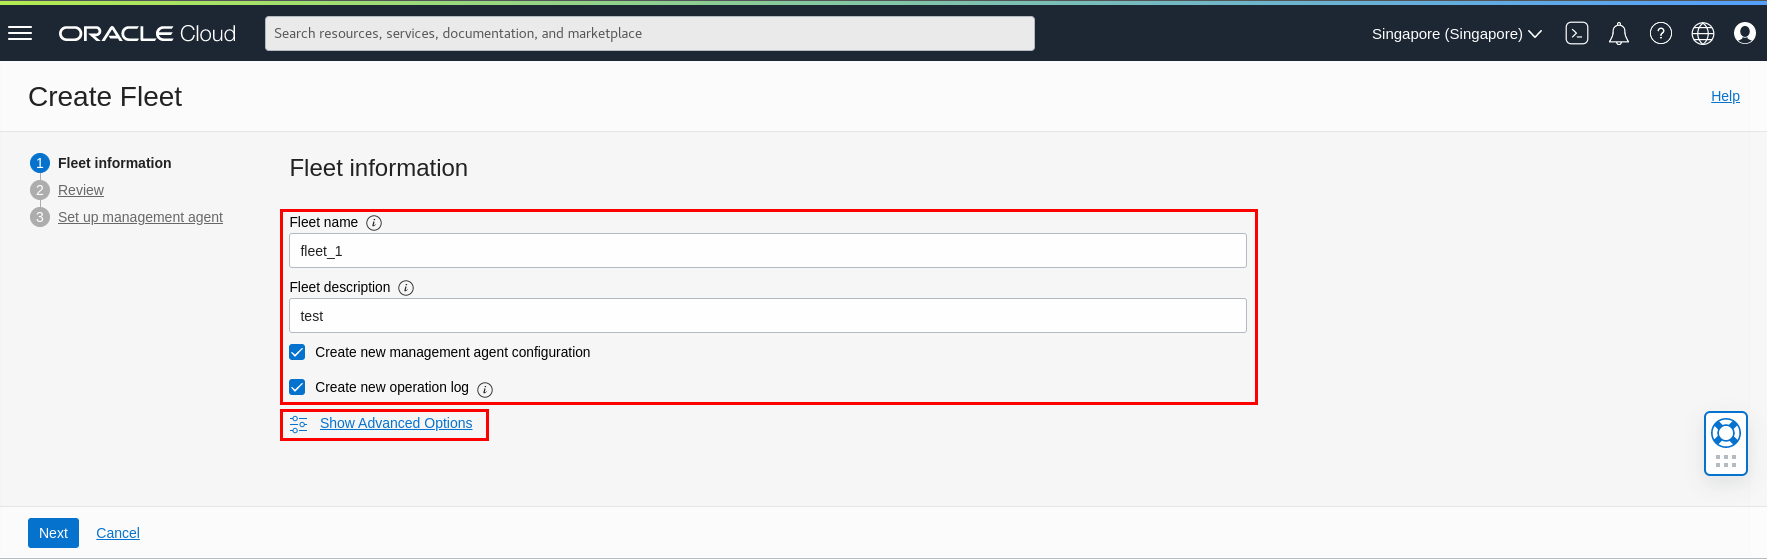
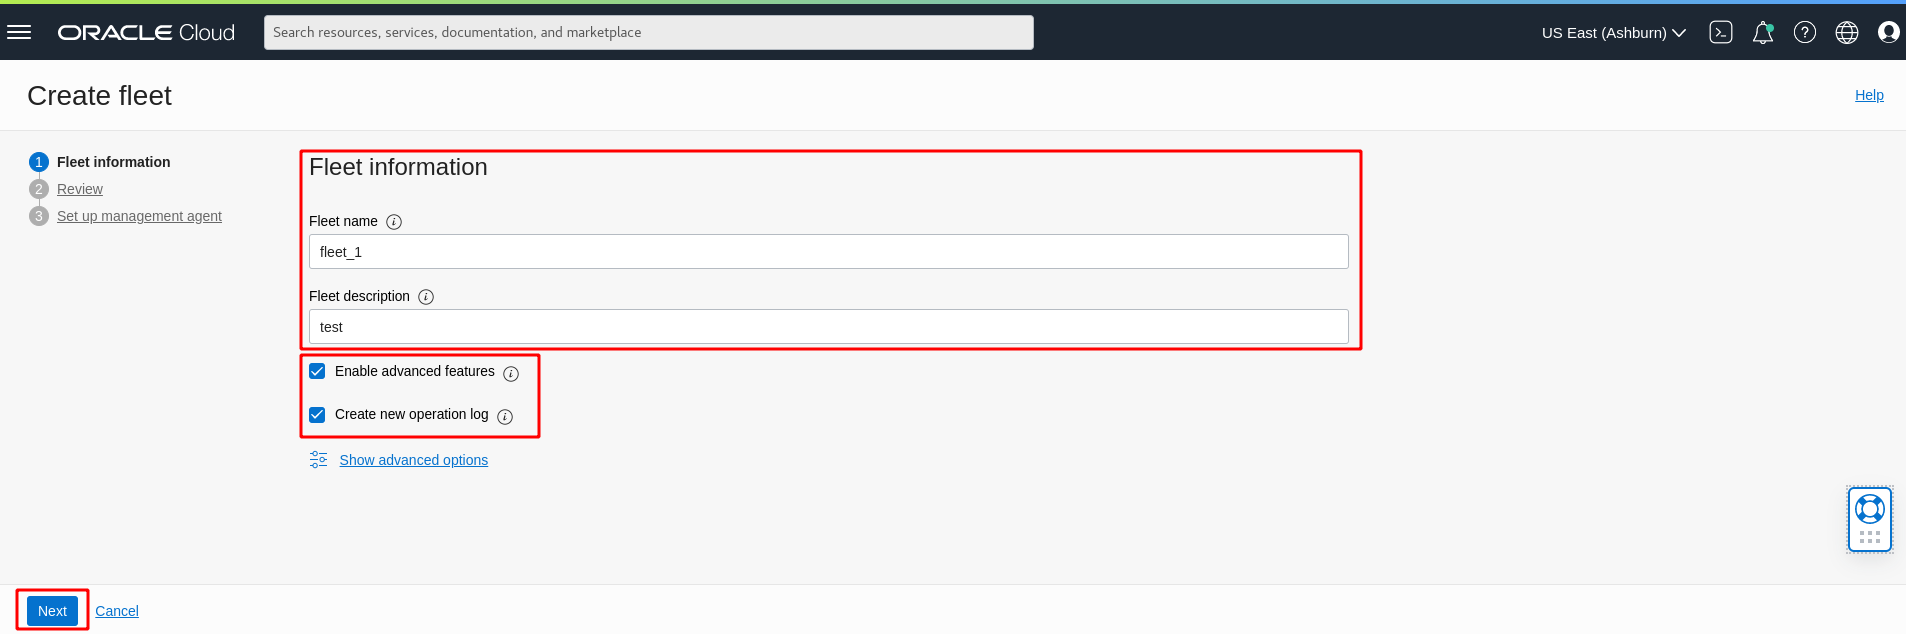
2b & 2c Update create fleet process
AJ-5586

diff --git a/java-management/setup-a-fleet/setup-a-fleet.md b/java-management/setup-a-fleet/setup-a-fleet.md
@@ -30,41 +30,29 @@ In this lab, you will:
 
 3. In the Create Fleet dialog box, enter a name for the Fleet Name (for example, `fleet_1`), and a description.
 
-4. Select **Create New Management Agent Configuration**.
-
-5. Click **Show Advanced Options**.
+4. Select **Enable advanced features**. This is to enable advanced Lifecycle Management (LCM) operations. You can still edit it after the fleet is created.
 
   ![image of create fleet options page](images/create-fleet.png)
 
-6. Under **Advanced Options**:
+5. Click **Next**.You are prompted to review the fleet information and management agent configuration. If you wish to modify your choices, click **Previous**.
 
-  ![image of fleet advanced options](images/create-fleet-advanced-configuration.png)
-
-  If you would like to keep the default name of the Install key, no changes are needed, or else deselect **Use Fleet Name** for Install Key Name and enter an alternative name for the management agent install key, for this example, enter "management-agent-install-key-fleet-1".
-
-  In the **Maximum Installations** field, specify a number that indicates the maximum number of installations that can be associated with the key. For this example enter **10**.
-
-  In the **Valid For** field, specify a number that indicates the period for which the key is valid. The default value is 1 Year.
-
-7. Click **Next**.You are prompted to review the fleet information and management agent configuration. If you wish to modify your choices, click **Previous**.
-
-8. Click **Create**. This creates a new fleet and a new management agent install key using the information you provided.
+6. Click **Create**. This creates a new fleet and its configuration.
 
   ![image of create fleet confirm creation](images/create-fleet-create.png)
 
-9. Click **Download Install Key** to download the install key. The install key is issued against your identity domain and validates the authenticity of the installation.
+7. Click **Download Install Key** to download the install key. The install key is issued against your identity domain and validates the authenticity of the installation.
 
   ![image of page to download management agent software](images/download-management-agent-software-new.png)
 
   Click **Done** once the download is complete. The downloaded file will be used in [Lab 5: Install Management Agent on non-OCI Hosts - Linux](?lab=set-up-of-management-agent-linux) to install the Management Agent.
 
-10. After JMS is linked to the management agent, it will collect information on your Java runtimes. As the management agent will scan the instance periodically, the information may not appear immediately. The scanning frequency can be changed here.
+8. After JMS is linked to the management agent, it will collect information on your Java runtimes. As the management agent will scan the instance periodically, the information may not appear immediately. The scanning frequency can be changed here.
 
-11. Click the fleet. In the detail page, click on **Modify Agent Settings**.
+9. Click the fleet. In the detail page, click on **Modify Agent Settings**.
 
   ![image of fleet details page](images/fleet-details-page-new.png)
 
-12. Change the **Java Runtime Discovery** and **Java Runtime Usage** to the desired value. For this example, change **Java Runtime Discovery** to **3 hours**, and **Java Runtime Usage** to **5 minutes**.
+10. Change the **Java Runtime Discovery** and **Java Runtime Usage** to the desired value. For this example, change **Java Runtime Discovery** to **3 hours**, and **Java Runtime Usage** to **5 minutes**.
 
   ![image of modify agent settings page](images/fleet-modify-agent-settings-new.png)
 
